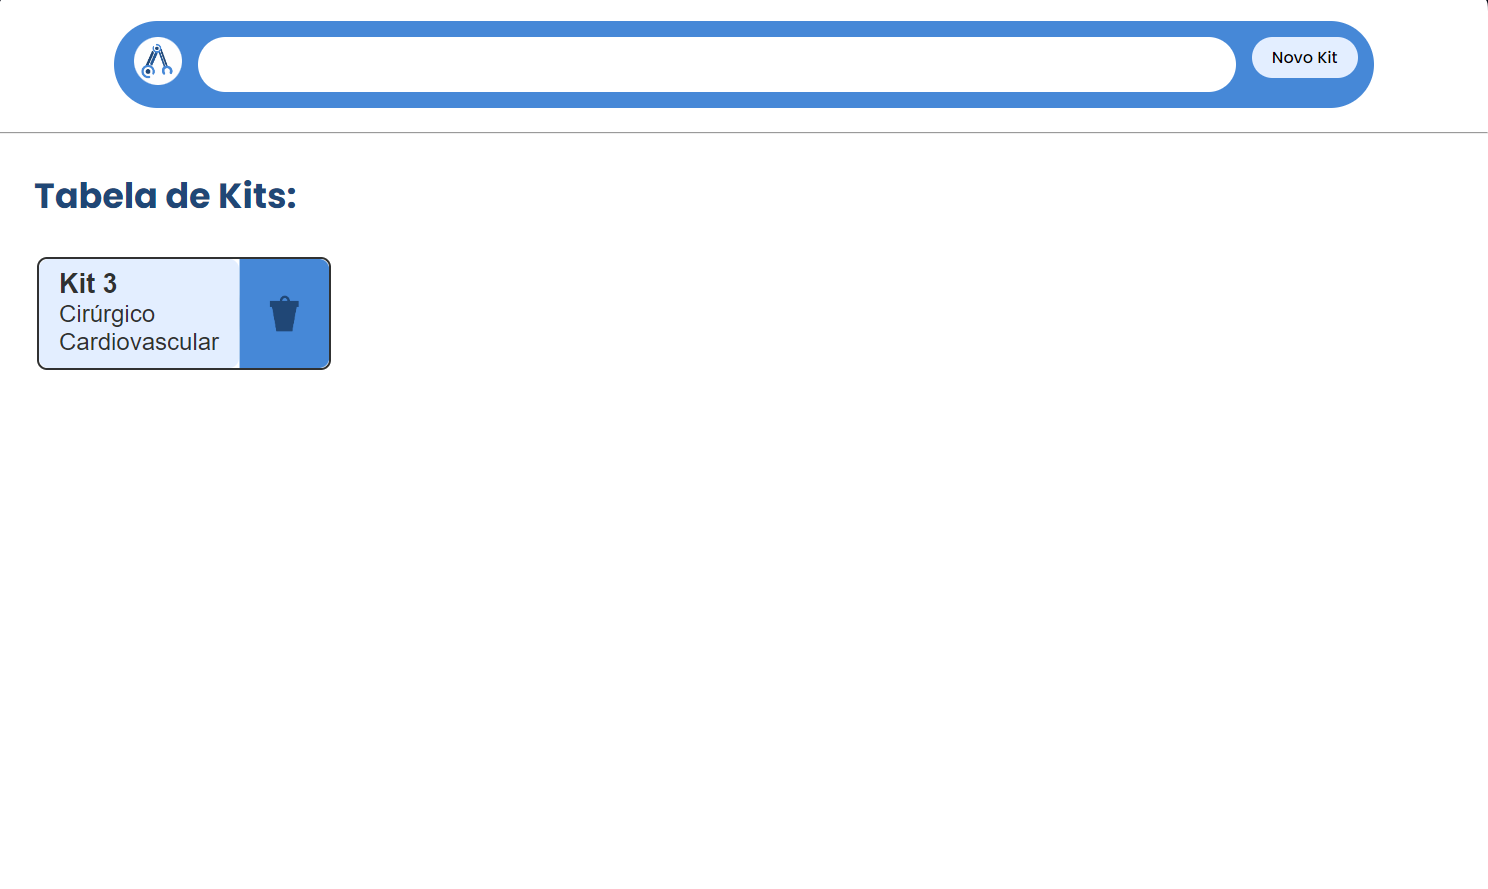
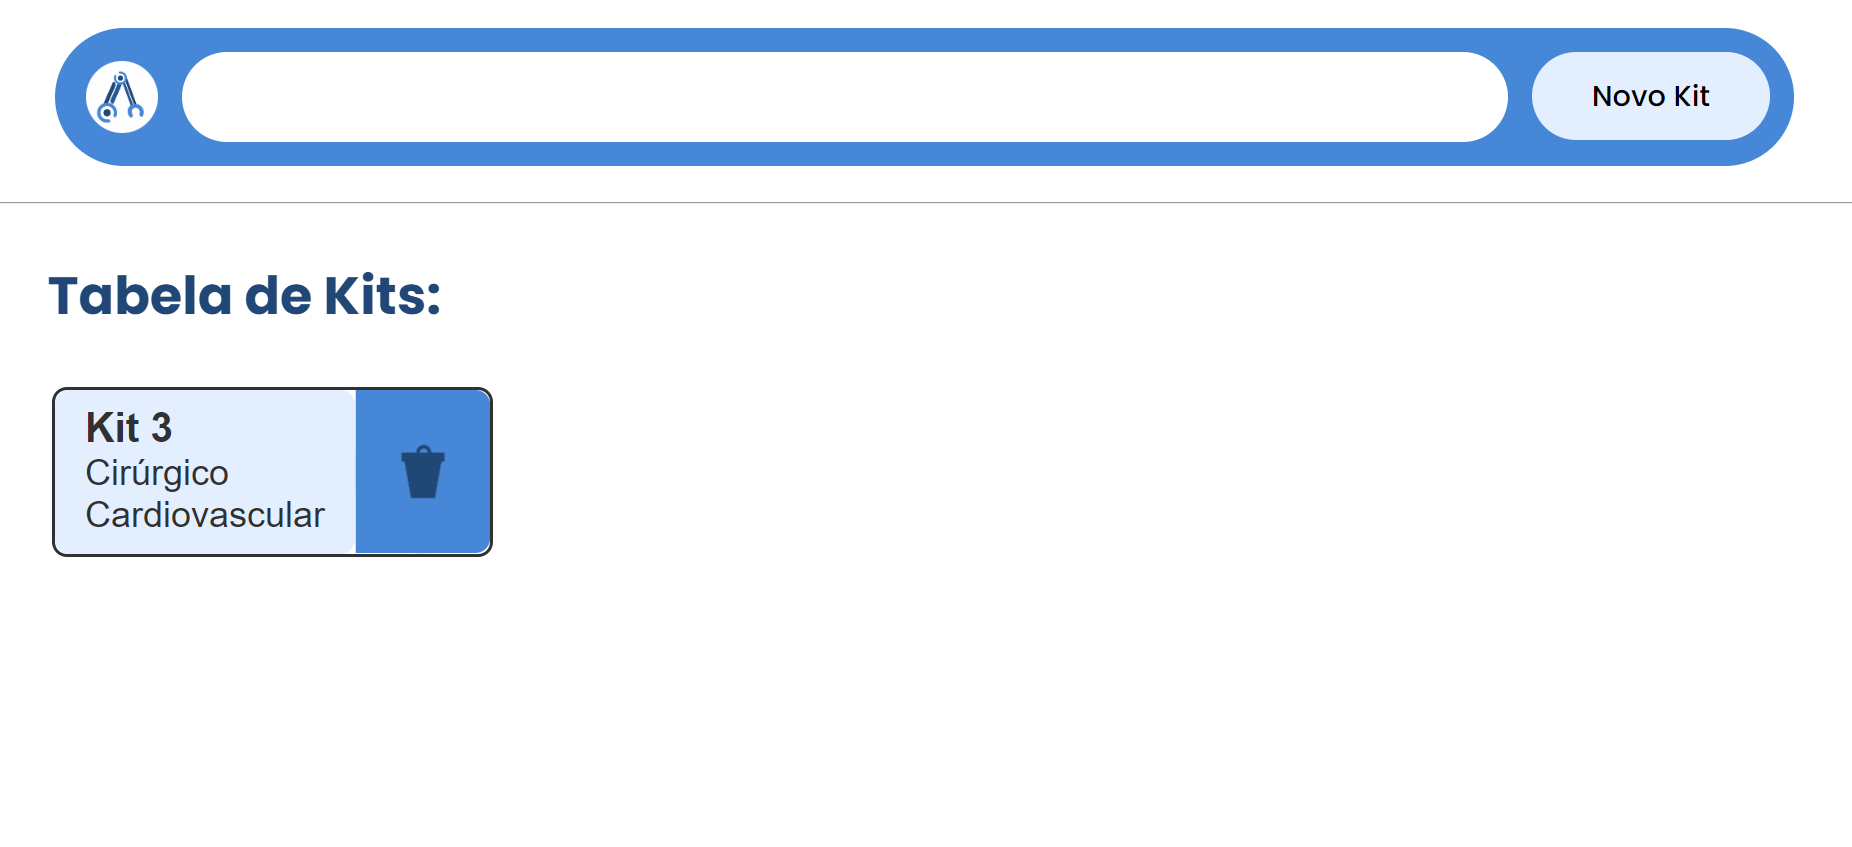
ajustes nas imagens da documentação

Changed region(s): [[0.0, 0.0, 0.9892, 0.2456], [0.0, 0.2763, 0.2782, 0.6753]]

diff --git a/src/novo_backend/templates/telaKit.html b/src/novo_backend/templates/telaKit.html
@@ -5,7 +5,7 @@
     <meta charset="UTF-8">
     <meta name="viewport" content="width=device-width, initial-scale=1.0">
     <title>Document</title>
-    <link rel="stylesheet" href="../static/css/edicaoKit.css">
+    <link rel="stylesheet" href="../static/css/telaKit.css">
 </head>
 
 <body>

diff --git a/documentation/docusaurus-documentation/docs/sprints/Sprint 4/aterfato2.md b/documentation/docusaurus-documentation/docs/sprints/Sprint 4/aterfato2.md
@@ -293,7 +293,7 @@ sidebar_position: 2
 
 ---
 <div style={{width: '80%', margin: '0 auto', textAlign: 'center'}}>
-    Imagem 22 - Frontend: config.html
+    Imagem 22 - Frontend: visualizacao.html
     ![image](/img/frontend/visualizacaoKit.png)
     Fonte: Elaborado pelos próprios autores
 </div>
